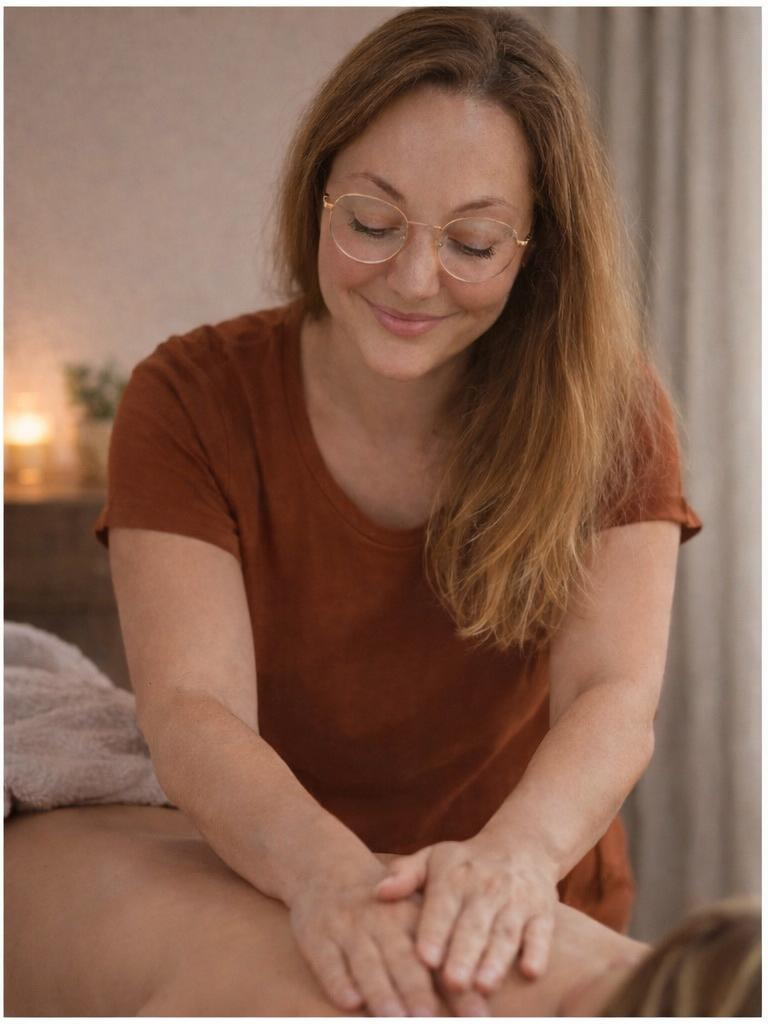
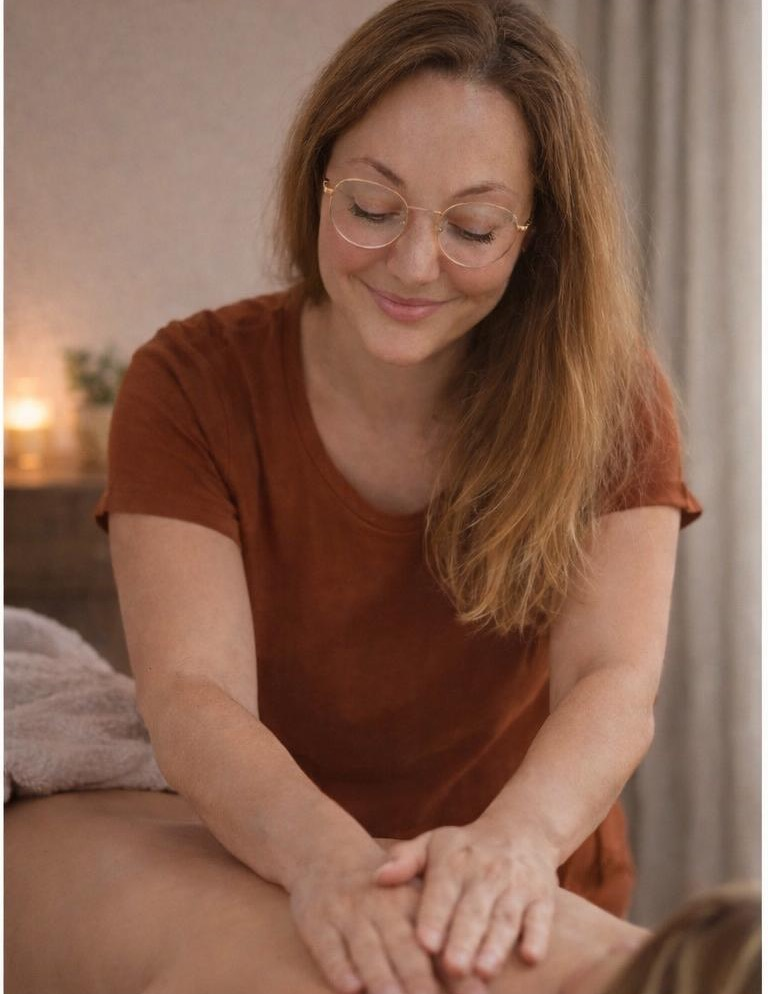
Flyer: witte rand foto gecroppt, foto als img-element hersteld, sessie-info boven fases

diff --git a/flyer.html b/flyer.html
@@ -71,30 +71,29 @@ sitemap: false
       position: relative;
       overflow: hidden;
       background: #4a3728;
-      transform: translateZ(0);
     }
 
     .flyer-col-photo img {
       position: absolute;
-      top: -2px; left: -2px; right: -2px; bottom: -2px;
-      width: calc(100% + 4px);
-      height: calc(100% + 4px);
+      top: 0; left: 0;
+      width: 100%;
+      height: 100%;
       object-fit: cover;
       object-position: 45% 48%;
       display: block;
       filter: brightness(1.06) contrast(0.94) saturate(0.96);
     }
 
-    /* gradiënt om helle randen in foto te maskeren */
     .flyer-col-photo::after {
       content: "";
       position: absolute;
       inset: 0;
       background:
-        linear-gradient(to bottom, rgba(44,31,20,0.45) 0%, transparent 18%),
-        linear-gradient(to top,    rgba(44,31,20,0.45) 0%, transparent 18%);
+        linear-gradient(to bottom, rgba(44,31,20,0.25) 0%, transparent 10%),
+        linear-gradient(to top,    rgba(44,31,20,0.25) 0%, transparent 10%);
       pointer-events: none;
     }
+
 
     /* === RECHTER KOLOM: INHOUD === */
     .flyer-col-content {
@@ -197,15 +196,39 @@ sitemap: false
       font-weight: 300;
       color: var(--terracotta);
       line-height: 1.55;
-      margin-bottom: 4mm;
+      margin-bottom: 2mm;
+    }
+
+    /* === SESSIE INFO === */
+    .col-session {
+      display: flex;
+      flex-direction: column;
+      gap: 0.5mm;
+      margin-bottom: 2mm;
+    }
+
+    .col-session-name {
+      font-family: "Fraunces", serif;
+      font-style: italic;
+      font-variation-settings: 'opsz' 120;
+      font-size: 4mm;
+      font-weight: 400;
+      color: var(--ink);
+    }
+
+    .col-session-meta {
+      font-size: 2.5mm;
+      font-weight: 300;
+      letter-spacing: 0.1em;
+      color: var(--ink-soft);
     }
 
     /* === FASES === */
     .col-phases {
       display: flex;
       flex-direction: column;
-      gap: 1.5mm;
-      margin-bottom: 4mm;
+      gap: 1mm;
+      margin-bottom: 3mm;
     }
 
     .col-phase {
@@ -249,19 +272,19 @@ sitemap: false
       color: var(--gold);
       padding-left: 2.5mm;
       margin-top: 1.5mm;
-      margin-bottom: 4mm;
+      margin-bottom: 2mm;
     }
 
     /* === DECORATIEVE SECTIE === */
     .col-deco {
       flex: 1;
-      min-height: 16mm;
+      min-height: 6mm;
       display: flex;
       flex-direction: column;
       align-items: center;
       justify-content: center;
-      gap: 2mm;
-      margin-bottom: 4mm;
+      gap: 1.5mm;
+      margin-bottom: 2mm;
     }
 
     .col-deco svg {
@@ -295,7 +318,7 @@ sitemap: false
     /* === CONTACT === */
     .col-contact {
       border-top: 0.3mm solid rgba(196, 154, 98, 0.3);
-      padding-top: 4mm;
+      padding-top: 2.5mm;
     }
 
     .col-contact-label {
@@ -311,7 +334,7 @@ sitemap: false
     .col-contact-items {
       display: flex;
       flex-direction: column;
-      gap: 1.5mm;
+      gap: 1mm;
     }
 
     .col-contact-item {
@@ -332,15 +355,15 @@ sitemap: false
     }
 
     .col-qr {
-      margin-top: 3mm;
+      margin-top: 2mm;
       display: flex;
       align-items: center;
-      gap: 3mm;
+      gap: 2.5mm;
     }
 
     .col-qr img {
-      width: 18mm;
-      height: 18mm;
+      width: 14mm;
+      height: 14mm;
       display: block;
     }
 
@@ -401,6 +424,12 @@ sitemap: false
     <!-- Voor wie -->
     <p class="col-voor-wie">Of je nu komt met stress, vermoeidheid of gewoon de behoefte om even bij jezelf te zijn. Je bent welkom.</p>
 
+    <!-- Sessie info -->
+    <div class="col-session">
+      <span class="col-session-name">Lotus Moment sessie</span>
+      <span class="col-session-meta">70 minuten</span>
+    </div>
+
     <!-- Fases -->
     <div class="col-phases">
       <div class="col-phase"><span class="col-phase-num">i.</span><span>Aankomen: kort afstemmen wat je lichaam aangeeft.</span></div>
@@ -420,8 +449,6 @@ sitemap: false
         <path d="M96 34c-16 8-26 18-32 34 24-6 32-16 32-34z"/>
         <path d="M22 72c18 6 36 6 84 0-32 24-52 24-84 0z"/>
       </svg>
-      <span class="col-deco-title">Lotus Moment sessie</span>
-      <span class="col-deco-meta">70 minuten</span>
     </div>
 
     <!-- Contact -->